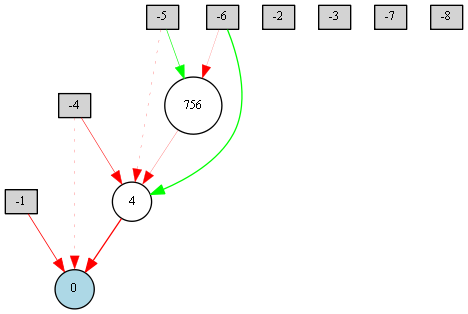
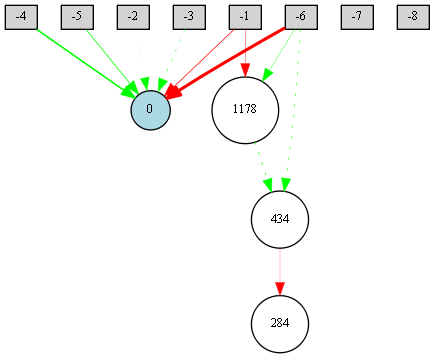
Improved fitness functions for tip and dip.

diff --git a/src/b2d/simulation_b2d_tip.py b/src/b2d/simulation_b2d_tip.py
@@ -10,10 +10,11 @@ class SimulationB2DTIP(SimulationB2D):
     def __init__(self, container, width, height, params):
         SimulationB2D.__init__(self, container, width, height)
         self.m_keyboardInputsEnabled = False
-        self.m_isTraining = False
+        self.m_isTraining = 'isTraining' in params and params['isTraining']
+        self.m_trainingProgress = 0
         if 'genomes' in params and 'config' in params:
             self.initParams(params['genomes'], params['config'])
-            self.m_isTraining = True
+            self.m_trainingProgress = params['currentStep'] / settings.NEAT_TIP_TRAINING_STEPS
         else:
             config = neat.Config(
                 neat.DefaultGenome,
@@ -88,10 +89,12 @@ class NNTIPSystem(object):
             validTime = self.m_timeAlive < settings.NEAT_TIP_MAX_TIME_ALIVE * 1000
 
             if not (validAngle1 and validAngle2 and validAngle3 and validPosition and validTime):
-                deltaX = abs(settings.APP_WIDTH/2 - self.m_dip.box.m_position.x)
-                #self.m_genome.fitness = max(0.0, self.m_timeAlive - self.m_traveledDistance/1000)
-                self.m_genome.fitness = self.m_timeAlive
+                if self.m_simulationRef.m_trainingProgress < 0.5:
+                    self.m_genome.fitness = self.m_timeAlive
+                else:
+                    self.m_genome.fitness = max(0.0, self.m_timeAlive - self.m_traveledDistance/1000)
                 #print('fitness: ' + str(self.m_genome.fitness) + "\t" + str(self.m_timeAlive) + "\t" + str(self.m_traveledDistance/1000))
+                print('fitness: ' + str(self.m_genome.fitness))
                 self.m_isAlive = False
                 return
 
@@ -113,7 +116,7 @@ class NNTIPSystem(object):
         output = self.m_neuralNetwork.activate(input)
 
         # Obtain Prediction
-        f = self.m_dip.box.m_body.GetWorldVector(localVector=(output[0]/10, 0.0))
+        f = self.m_dip.box.m_body.GetWorldVector(localVector=(min(max(-10,output[0]/10),10), 0.0))
         p = self.m_dip.box.m_body.GetWorldPoint(localPoint=(0.0, 0.0))
         self.m_dip.box.m_body.ApplyLinearImpulse(f, p, True)
 

diff --git a/src/b2d/simulation_b2d_dip.py b/src/b2d/simulation_b2d_dip.py
@@ -10,10 +10,11 @@ class SimulationB2DDIP(SimulationB2D):
     def __init__(self, container, width, height, params):
         SimulationB2D.__init__(self, container, width, height)
         self.m_keyboardInputsEnabled = False
-        self.m_isTraining = False
+        self.m_isTraining = 'isTraining' in params and params['isTraining']
+        self.m_trainingProgress = 0
         if 'genomes' in params and 'config' in params:
             self.initParams(params['genomes'], params['config'])
-            self.m_isTraining = True
+            self.m_trainingProgress = params['currentStep'] / settings.NEAT_TIP_TRAINING_STEPS
         else:
             config = neat.Config(
                 neat.DefaultGenome,
@@ -87,8 +88,11 @@ class NNDIPSystem(object):
             validTime = self.m_timeAlive < settings.NEAT_DIP_MAX_TIME_ALIVE * 1000
 
             if not (validAngle1 and validAngle2 and validPosition and validTime):
-                deltaX = abs(settings.APP_WIDTH/2 - self.m_dip.box.m_position.x)
-                self.m_genome.fitness = max(0.0, self.m_timeAlive - self.m_traveledDistance/1000)
+                if self.m_simulationRef.m_trainingProgress < 0.5:
+                    self.m_genome.fitness = max(0.0, self.m_timeAlive - self.m_traveledDistance/1000)
+                else:
+                    deltaX = abs(settings.APP_WIDTH/2 - self.m_dip.box.m_position.x)
+                    self.m_genome.fitness = max(0.0, self.m_timeAlive - deltaX - self.m_traveledDistance/1000)
                 print('fitness: ' + str(self.m_genome.fitness) + "\t" + str(self.m_timeAlive) + "\t" + str(self.m_traveledDistance/1000))
                 self.m_isAlive = False
                 return
